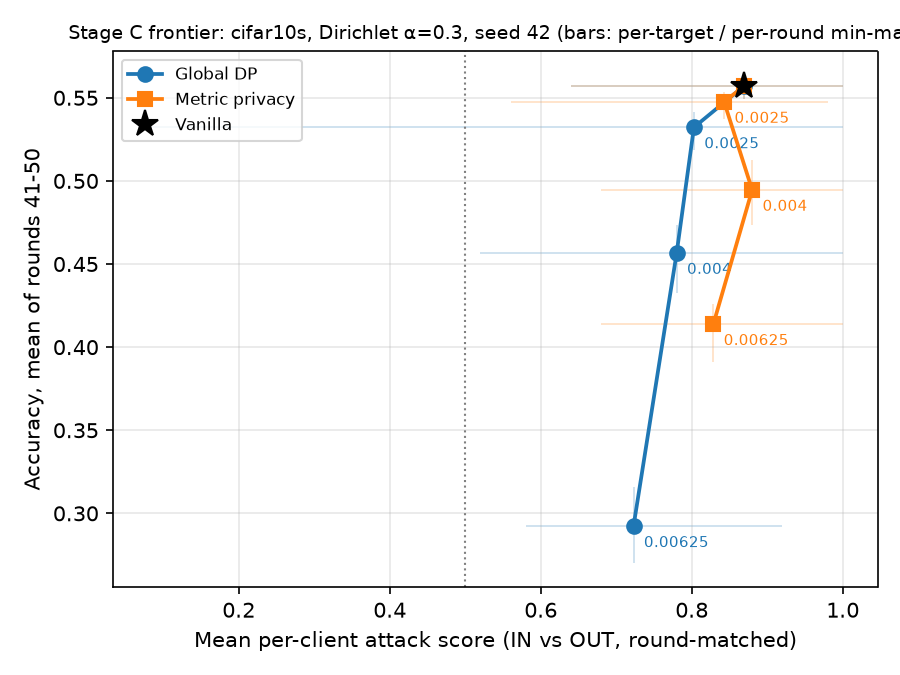
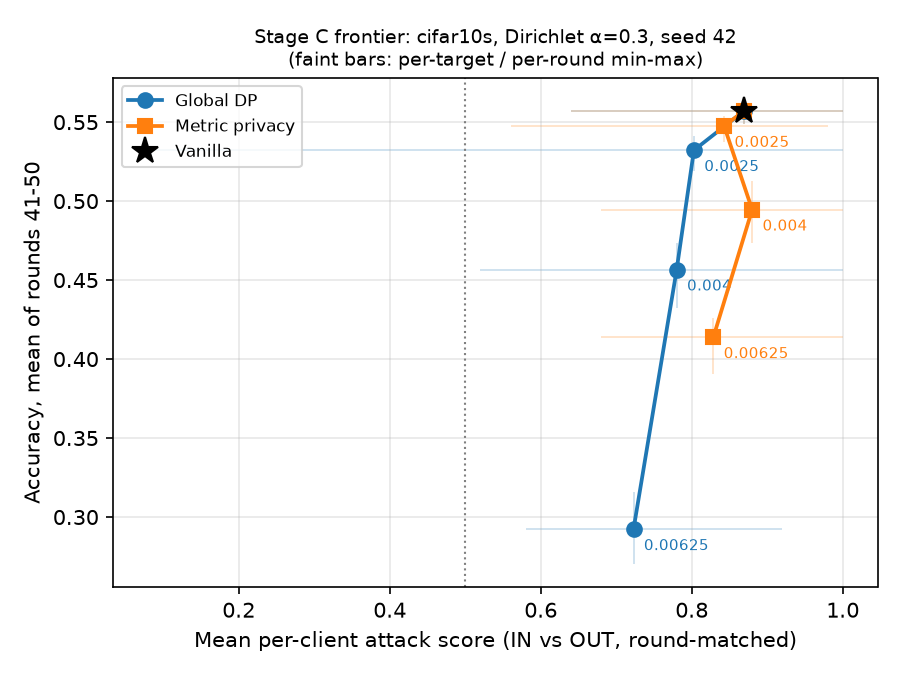
dataset_vs_model: frontier title on two lines (was cut off)

diff --git a/results/cia_frontier/dataset_vs_model/frontier.py b/results/cia_frontier/dataset_vs_model/frontier.py
@@ -85,7 +85,7 @@ def plot(data: dict, root: Path, out: Path | None = None) -> list[Path]:
         ax.axvline(0.5, color="grey", ls=":", lw=1)
         ax.set_xlabel("Mean per-client attack score (IN vs OUT, round-matched)")
         ax.set_ylabel(f"Accuracy, mean of rounds {vanilla['rounds'] - WINDOW + 1}-{vanilla['rounds']}")
-        ax.set_title(f"Stage C frontier: {dataset}, Dirichlet α=0.3, seed 42 (bars: per-target / per-round min-max)",
+        ax.set_title(f"Stage C frontier: {dataset}, Dirichlet α=0.3, seed 42\n(faint bars: per-target / per-round min-max)",
                      fontsize=9)
         ax.legend(fontsize=8)
         ax.grid(alpha=0.3)
